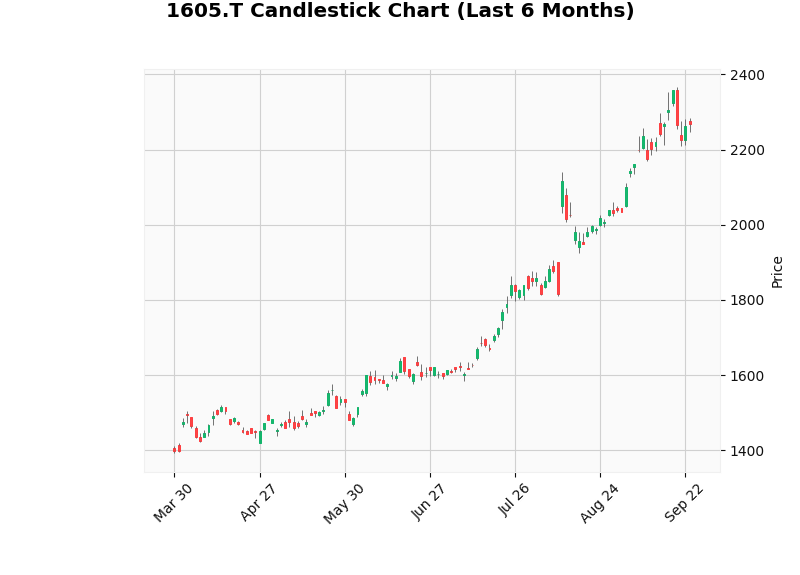
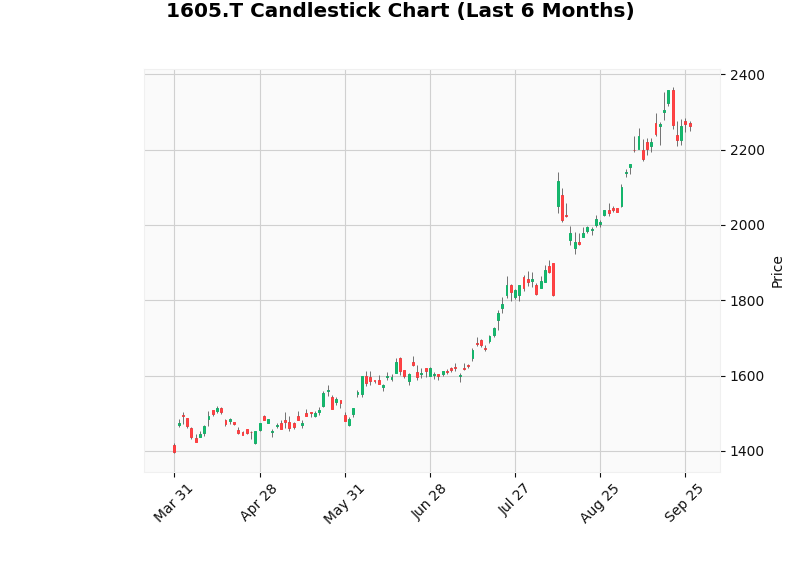
20230927_2

diff --git a/k/index.html b/k/index.html
@@ -3,24 +3,24 @@
 <title>GetInfoooooo!</title>
 </head>
 <body>
-処理日時: 2023/09/26 07:53
+処理日時: 2023/09/27 05:27
 <p>※配当利回りの数字は不正確の模様。確認中。</p>
 
 <p>1518：Mitsui Matsushima Holdings Co., Ltd. （Energy）</p>
 <p>利回：2.78%   権確：2023/09/28</p>
-<p>前日終値：2877.0</p>
+<p>前日終値：2872.0</p>
 <img src='img/1518.T_candlestick_chart.png'>
 <p>1605：Inpex Corporation （Energy）</p>
 <p>利回：3.26%   権確：2023/12/28</p>
-<p>前日終値：2268.0</p>
+<p>前日終値：2264.0</p>
 <img src='img/1605.T_candlestick_chart.png'>
 <p>1419：Tama Home Co., Ltd. （Consumer Cyclical）</p>
 <p>利回：10.00%   権確：2024/05/30</p>
-<p>前日終値：3700.0</p>
+<p>前日終値：3635.0</p>
 <img src='img/1419.T_candlestick_chart.png'>
 <p>1719：Hazama Ando Corporation （Industrials）</p>
 <p>利回：4.92%   権確：2023/09/28</p>
-<p>前日終値：1219.0</p>
+<p>前日終値：1202.0</p>
 <img src='img/1719.T_candlestick_chart.png'>
 
 

diff --git a/k/12PyGetInfo.py b/k/12PyGetInfo.py
@@ -1,0 +1,112 @@
+# 情報取得スクリプト
+
+# モジュールのインポート
+import yfinance as yf
+import pandas as pd
+import mplfinance as mpf
+from IPython.display import HTML, display
+from datetime import datetime
+import datetime
+import sys
+import os
+import time
+
+print("処理開始")
+
+# 出力ファイルの指定
+OutFileName = "k/index.html"
+HtmlBody = "<html>\n<head>\n<title>GetInfoooooo!</title>\n</head>\n<body>\n"
+
+
+DtNow = datetime.datetime.now()
+
+
+# print( '今の時間: ' + DtNow.strftime('%Y/%m/%d %H:%M') )
+HtmlBody += '処理日時: ' + DtNow.strftime ( '%Y/%m/%d %H:%M' ) + "\n"
+HtmlBody += "<p>※配当利回りの数字は不正確の模様。確認中。</p>\n\n"
+print(HtmlBody)
+
+
+# 対象銘柄のリスト
+symbols = ['1518.T', '1605.T', '1419.T', '1719.T']
+
+# 銘柄情報を格納するリスト
+company_info = []
+
+# 直近半年のデータを格納するディクショナリ
+ohlc_data = {}
+
+
+print("<info> 繰り返し処理開始。")
+for symbol in symbols:
+  print(f"コード：{symbol}")
+
+  company = yf.Ticker(symbol)
+  info = company.info
+
+
+  company_code = symbol.split('.')[0]  # コード
+  company_name = info.get('longName', 'N/A')   # 社名の取得
+  sector = info.get('sector', 'N/A')  # セクター、業種
+
+  ex_dividend_date = info.get('exDividendDate', 'N/A')  # 次回の権利確定日
+  print(f"{ex_dividend_date}")
+
+  ex_dividend_date_format = datetime.datetime.fromtimestamp(ex_dividend_date)
+  ex_dividend_date_str = ex_dividend_date_format.strftime('%Y/%m/%d')
+
+  previous_close = info.get('regularMarketPreviousClose', 'N/A')  # 前日終値
+  dividend_yield = info.get('dividendYield', 'N/A')  # 配当利回り
+  company_info.append([company_code, company_name, sector, ex_dividend_date, previous_close, dividend_yield])
+
+
+  HtmlBody += f"<p>{company_code}：{company_name} （{sector}）</p>\n"
+  HtmlBody += f"<p>利回：{dividend_yield:.2%}   権確：{ex_dividend_date_str}</p>\n"
+  HtmlBody += f"<p>前日終値：{previous_close}</p>\n"
+  HtmlBody += f"<img src='img/{company_code}.T_candlestick_chart.png'>\n"
+
+
+  # 直近半年の4本値および売買高データを取得
+  end_date = datetime.date.today()
+  start_date = end_date - datetime.timedelta(days=180)  # 直近半年
+  data = yf.download(symbol, start=start_date, end=end_date)
+  ohlc_data[symbol] = data
+
+  # 負荷軽減のための待機
+  time.sleep(1)
+
+
+
+
+# HTMLの末尾部分を追加
+HtmlBody += "\n\n</html>\n"
+
+# 文字列をHTMLファイルに書き出し
+with open(OutFileName, "w") as file:
+    file.writelines(HtmlBody)
+
+
+#print("出力ファイルの中身を確認↓")
+#!cat index.html
+
+
+# 銘柄情報を一覧で表示
+df_info = pd.DataFrame(company_info, columns=['コード', '銘柄名', '業種名', '次回権利付き確定日', '前日終値', '予想配当利回り'])
+display(HTML(df_info.to_html(escape=False, index=False)))
+
+# 生成した銘柄情報をCSVファイルとして保存
+info_file = 'company_info.csv'
+df_info.to_csv(info_file, index=False, encoding='utf-8')
+print(f'銘柄情報が {info_file} に保存されました.')
+
+
+# ローソク足チャートの画像を作成して保存・表示
+for symbol, data in ohlc_data.items():
+    mpf.plot(data, type='candle', style='yahoo', title=f'{symbol} Candlestick Chart (Last 6 Months)',
+             savefig=f'k/img/{symbol}_candlestick_chart.png', ylabel_lower='Volume')
+    chart_image = f'k/img/{symbol}_candlestick_chart.png'
+    display(HTML(f'<img src="{chart_image}">'))
+
+print('ローソク足チャート画像が生成され、表示されました。')
+
+print("終わり")
